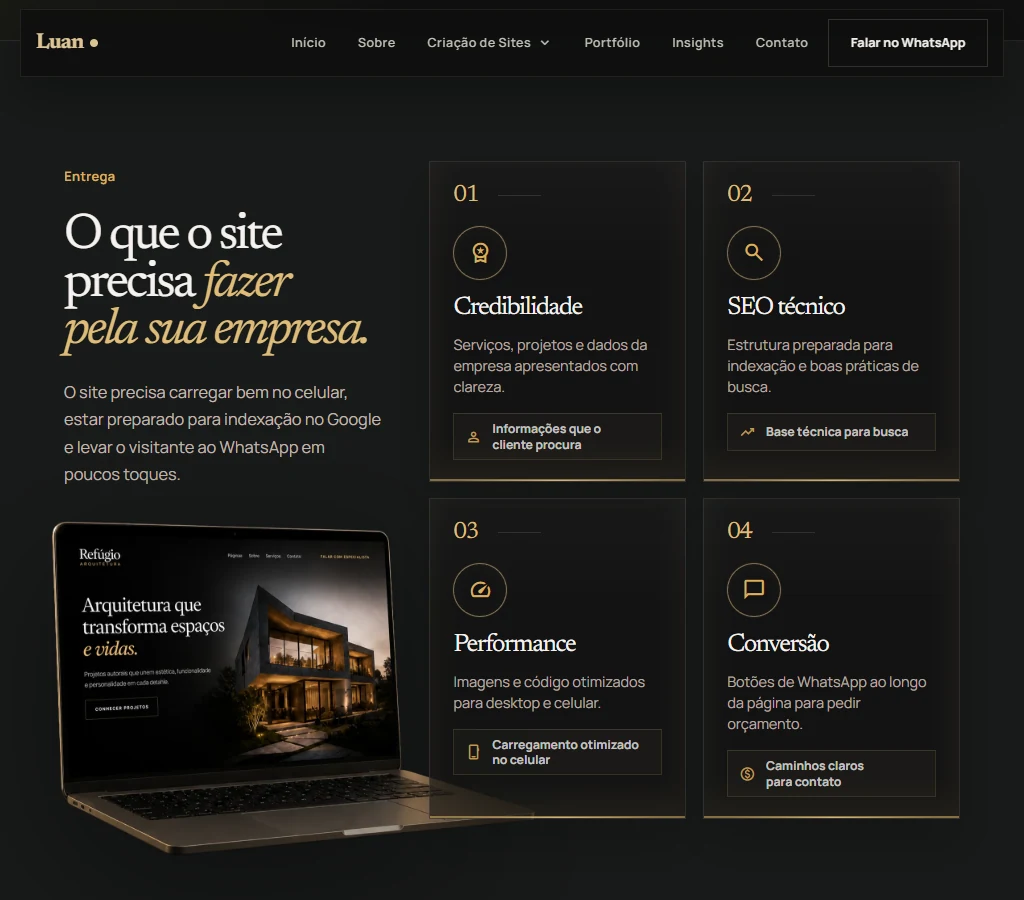
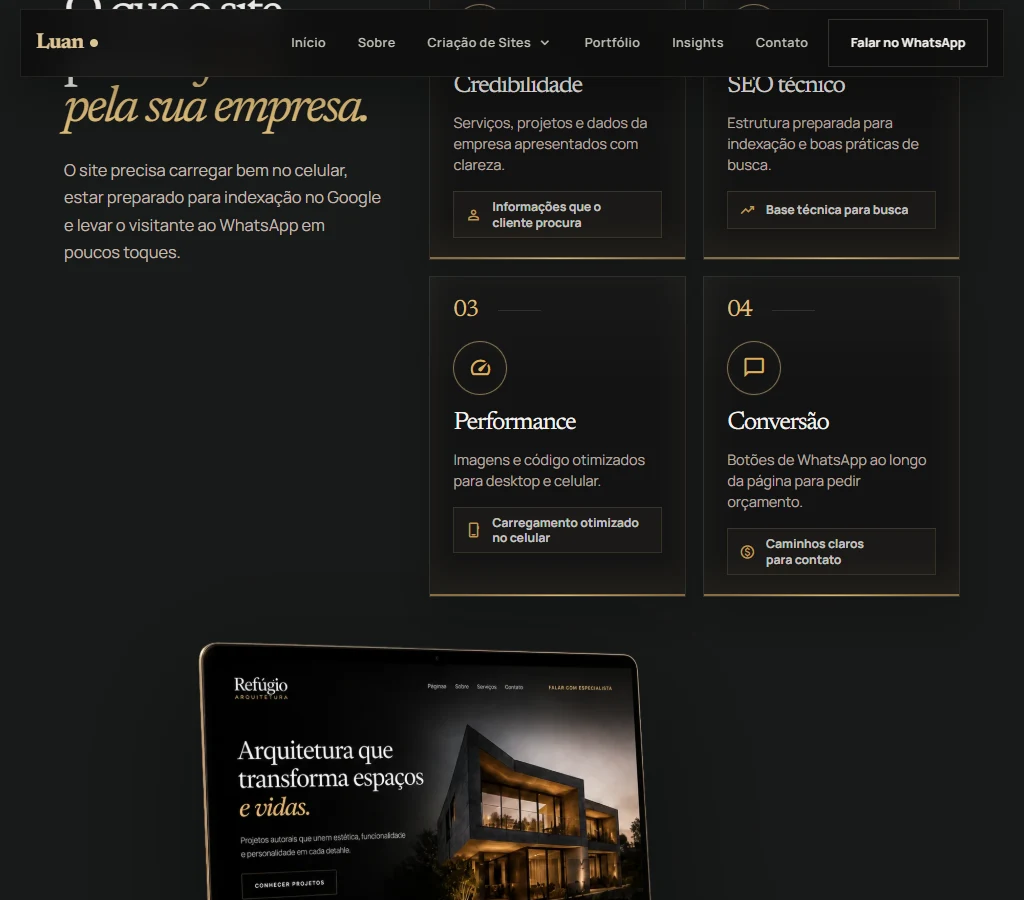
fix: separate tablet delivery imagery from cards

diff --git a/docs/reviews/ui-polish/README.md b/docs/reviews/ui-polish/README.md
@@ -44,4 +44,6 @@ The hub also has no empty element taller than 200px in the page flow at the four
 
 The active council now consists of GPT Sol and Claude Opus. The user removed GPT Astra after round 6 because of quota usage. Its earlier votes remain historical results in the PR description.
 
+Round 7 scored 9.0 from GPT Sol and 8.8 from Claude Opus. The remaining tablet laptop/card overlap is corrected by giving the Entrega image its own row below the copy and cards. Geometry checks find no image/card intersection at 920, 1024, 1100 or 1180px. Complete section captures at [920px](screenshots/hub-results-complete-920.webp), [1024px](screenshots/hub-results-complete-1024.webp), [1100px](screenshots/hub-results-complete-1100.webp) and [1180px](screenshots/hub-results-complete-1180.webp) show the new arrangement. The sticky navigation is hidden only in these isolated section captures so it cannot obscure the content; complete-page captures retain the normal navigation. Round 8 reviews are pending.
+
 Council results are recorded in the pull request description. Round 1 scored 8.3, 7.5 and 8.1. A Sol-only second pass scored 9.0. Round 3 scored 8.8, 8.5 and 9.0. Round 4 scored 9.0 and 8.9; Astra's attempt hit a provider rate limit. This set includes full article-image proportions, a real project image for the performance article, smaller desktop segment headings, shared header states including all eight case studies, shorter segment breadcrumbs, aligned service feature titles and flat media framing. A Sol recheck was canceled before completion to include Claude's findings in the next full council pass. Gemini is excluded at the user's request.
